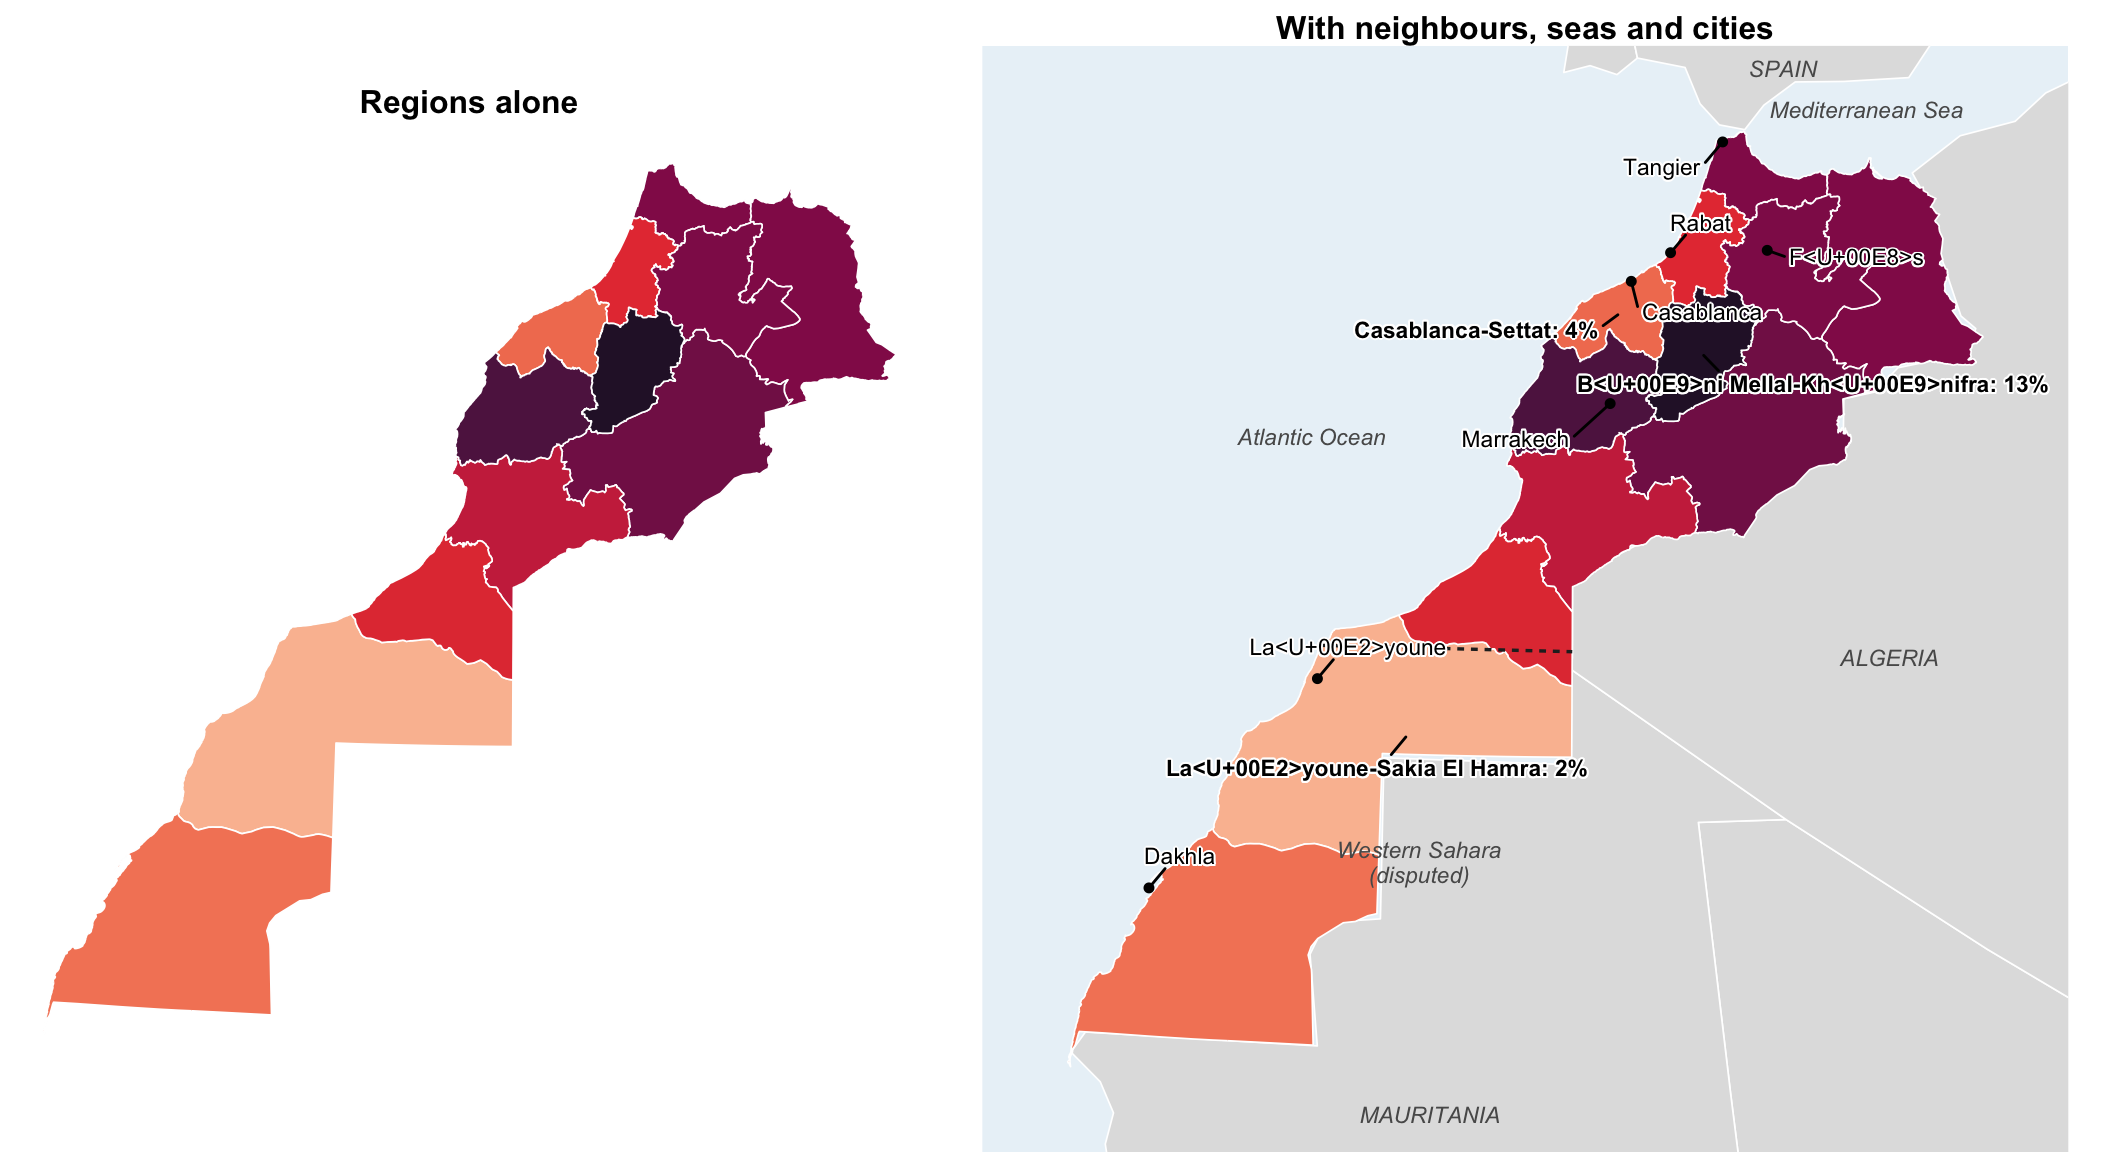
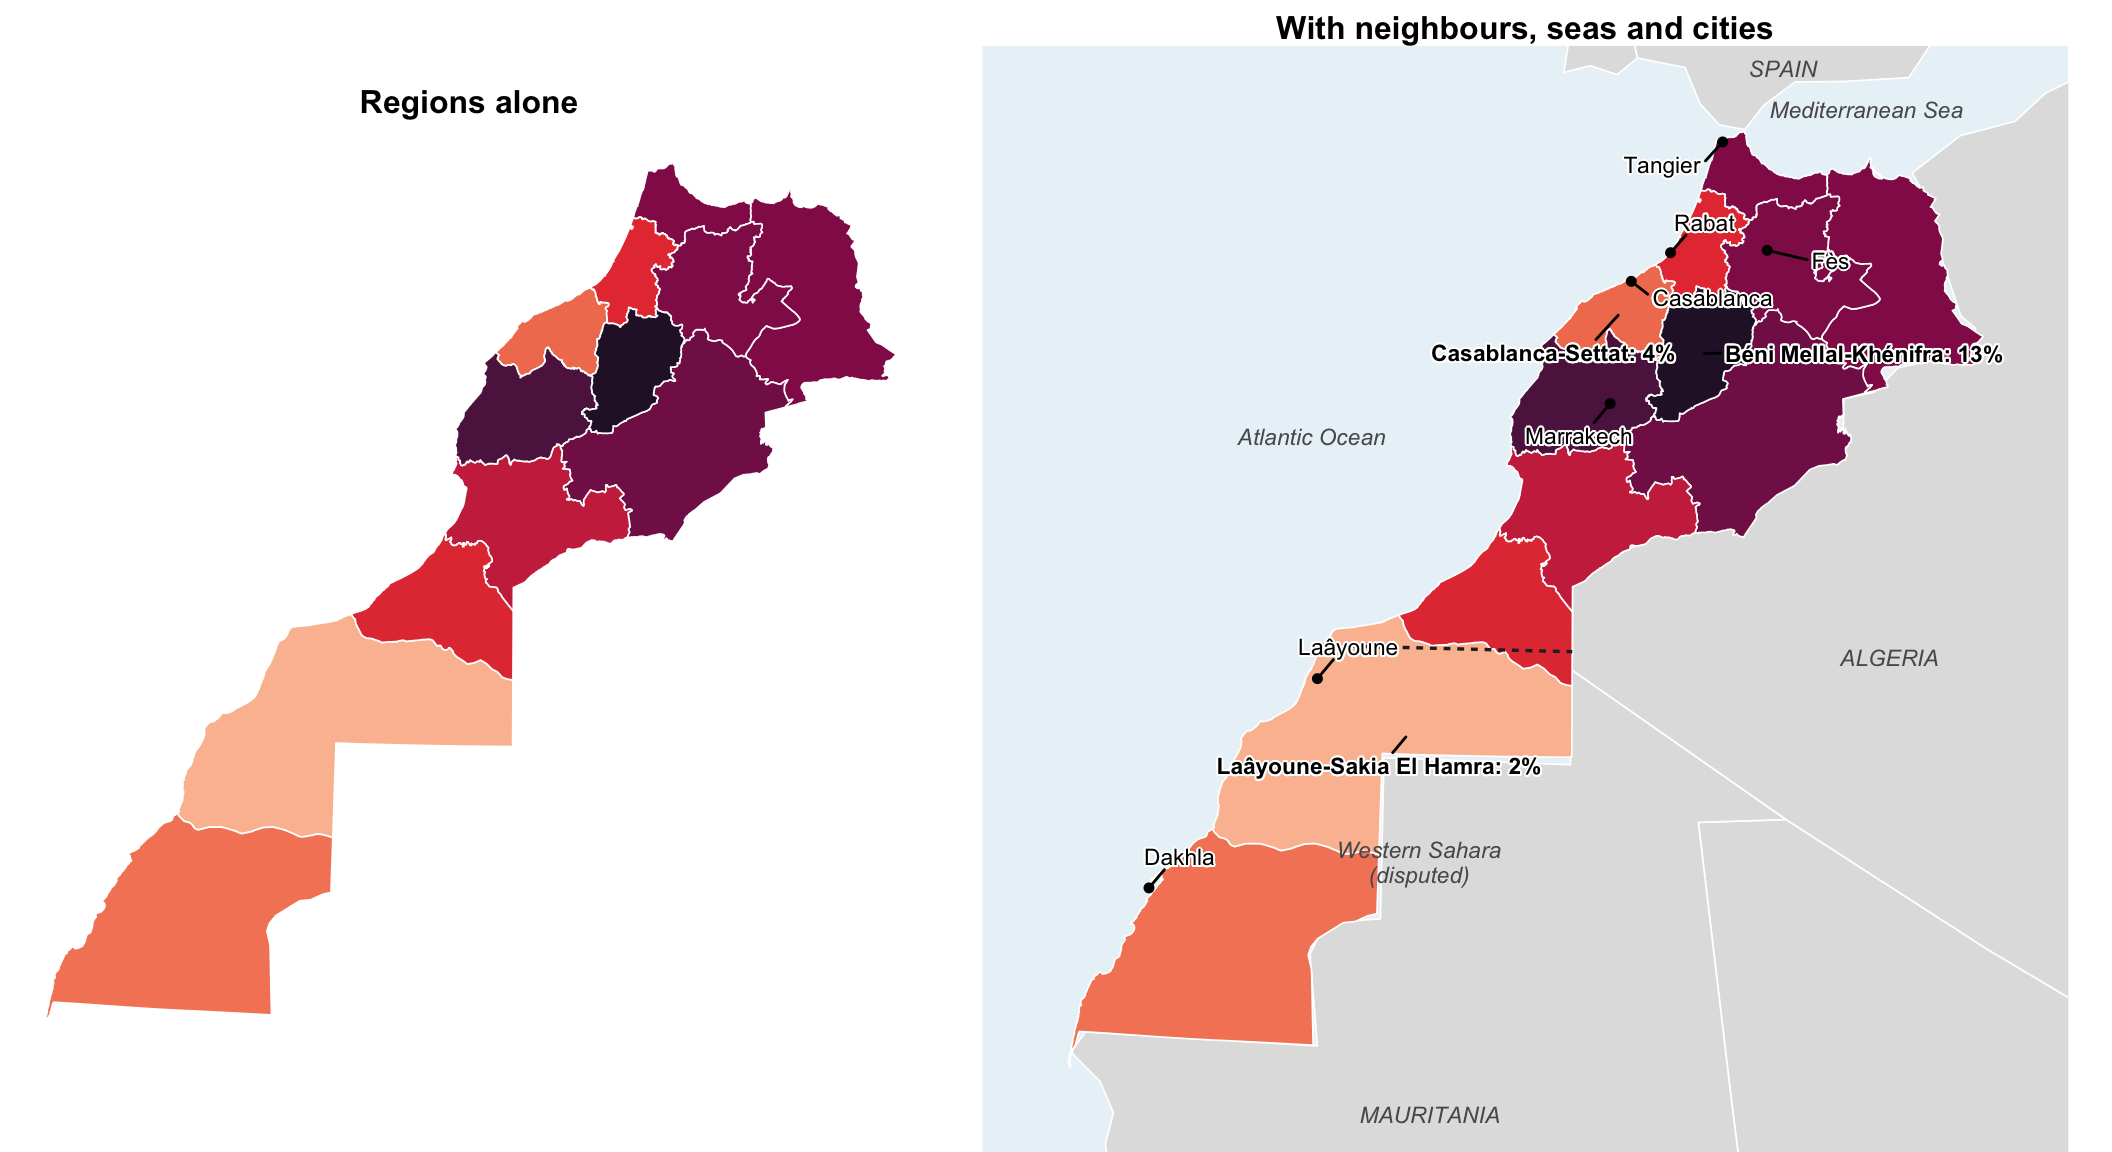
Update 'Do we need to know which way is up?' conclusion, fix Morocco map accented characters, rebuild site

diff --git a/post/which-way-is-up/index.html b/post/which-way-is-up/index.html
@@ -1226,8 +1226,8 @@
 <h3 id="post-hoc-investigations">Post-hoc investigations</h3>
 <p>Once the fire itself is out, the investigation starts: what went wrong, who is liable, what has to change. Those investigation maps are written for readers who were never on scene (investigators, insurers, courts), not for the crews who were. &ldquo;Side Delta&rdquo; meant something precise and immediate to the crew standing there; to everyone downstream, it means nothing until someone translates it back into cardinal directions. Police work runs into the identical need. The National Institute of Justice&rsquo;s <a href="https://www.ojp.gov/pdffiles1/nij/178280.pdf" target="_blank" rel="noopener">crime scene guide</a> instructs investigators to sketch the scene &ldquo;indicating north on the sketch.&rdquo; That is the same document doing a completely different job than the one the responding officer needed on arrival.</p>
 <h2 id="conclusion">Conclusion</h2>
-<p>Four practices, several different answers, and not always the ones you would expect. Recognition mostly needs nothing more than a familiar shape and a couple of labels, no compass required, except when the image itself has thrown its own reference away entirely: a satellite image turned upside down, or a gravity marker&rsquo;s beads. Each of those is doing the same job, letting one reader parse the picture correctly, not verifying anything against the world outside it. Navigation needs the map turned to match the reader&rsquo;s own body, and a north arrow shows up only as a footnote to that, when the map has been turned some other way instead. Coordination needs a frame everyone present actually shares, and that frame is usually a building, a fire, or a callout on a game map long before it is a compass bearing. Only retracing, matching a document against the actual ground with nobody else left to ask, genuinely needs a stated, dated north, and even then only because true, magnetic, and grid north each drift, disagree, and occasionally lie outright.</p>
-<p>None of this makes the north arrow a bad object. The trouble starts, as it usually does, one step upstream of the object itself: in the assumption that a map is a single kind of thing, answerable to a single fixed checklist, regardless of what it happens to be for.</p>
+<p>Four practices, several different answers, and not always the ones you would expect. Recognition mostly needs nothing more than a familiar shape and a couple of labels, no compass required. The exception is images with no built-in up of their own: turn a relief-inverted satellite photo the wrong way and canyons read as ridges; skip the beads on a horizontal-beam X-ray and a fluid line becomes unreadable. Both are the same fix, restoring information the image lost when it was flattened, not so anyone can verify it against the world outside, just so a single reader can parse the picture correctly. Navigation needs the map turned to match the reader&rsquo;s own body, and a north arrow shows up only as a footnote to that, when the map has been turned some other way instead. Coordination needs a frame everyone present actually shares, and that frame is usually a building, a fire, or a callout on a game map long before it is a compass bearing. Only retracing, matching a document against the actual ground with nobody else left to ask, genuinely needs a stated, dated north, and even then only because true, magnetic, and grid north each drift, disagree, and occasionally lie outright.</p>
+<p>None of this makes the north arrow untenable in maps. The trouble starts, as it usually does in the assumption that a map is a single kind of thing, answerable to a single fixed check-list, regardless of what it happens to be for.</p>
 
       </div>
       <div class="col-12 col-lg-3 docs-toc">
